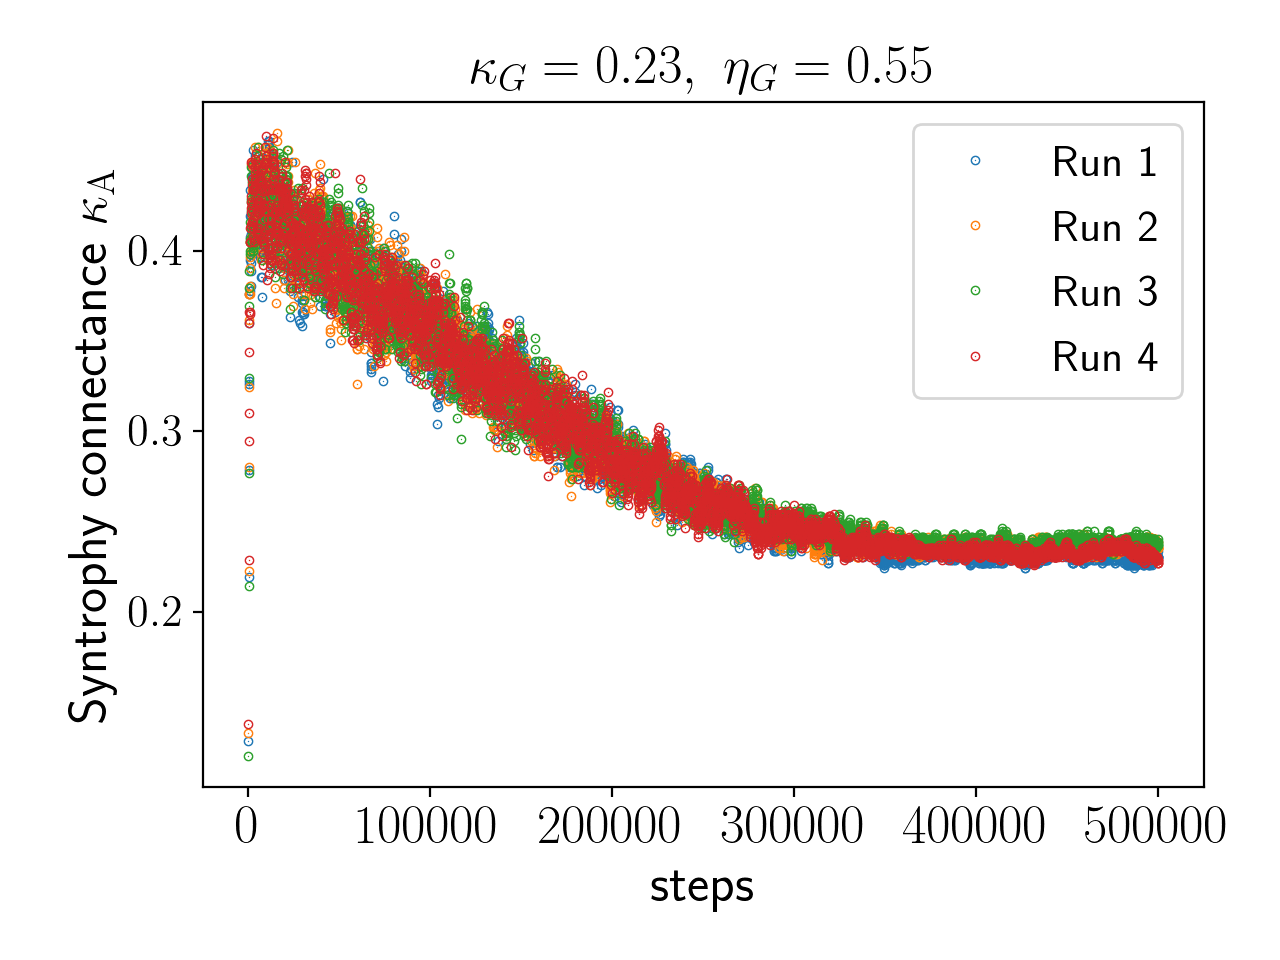
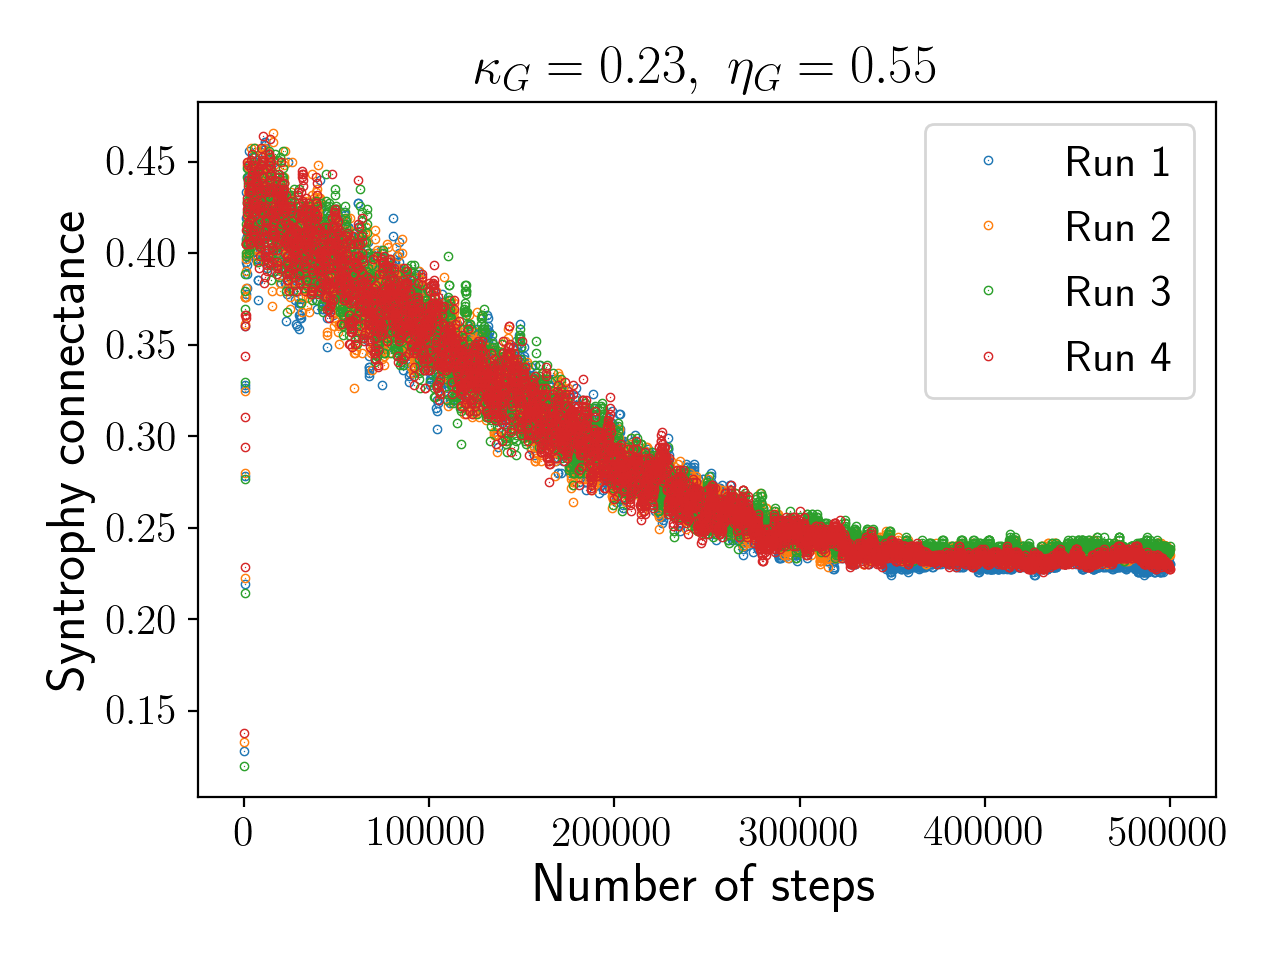
Removed special characters kappa and eta from energy optimzation process figures

diff --git a/data_analysis/consumer_resource_data_analysis/data_plotting.py b/data_analysis/consumer_resource_data_analysis/data_plotting.py
@@ -28,9 +28,9 @@ alpha_mode_sym = dict({'fully_connected': 'P', 'no_release_when_eat': 'D', 'opti
 alpha_mode_label=dict({'fully_connected':'Fully Connected', 'no_release_when_eat': 'NIS', 'optimized_matrix': 'Optimized', 'random_structure':'Random'})
 legend_titles=dict({'nestG': 'Consumption \n overlap '+r'$\eta_\mathrm{G}$', 'connG': 'Consumption \n connectance '+r'$\kappa_\mathrm{G}$'})
 
-labels=dict({'nestG': r'Consumption overlap $\eta_\mathrm{G}$', 'connG': r'Consumption connectance $\kappa_\mathrm{G}$',
-            'E': r'Objective function $ E $', 'connA': r'Syntrophy connectance $\kappa_\mathrm{A}$',
-            'nestA': r'Syntrophy overlap $\eta_\mathrm{A}$', 'feasible decay rate': r'Feasibility decay',
+labels=dict({'nestG': r'Consumption overlap $\eta_\mathrm{G}$', 'connG': r'Consumption connectance',
+            'E': r'Objective function', 'connA': r'Syntrophy connectance',
+            'nestA': r'Syntrophy overlap', 'feasible decay rate': r'Feasibility decay',
             'ld stable decay rate': r'Dynamical stability decay', 'alpha0': r'Syntrophy strength $\alpha_0$',
             'av. dominant eigenvalue':r'Mean rate of return', 'feasible volume':r'Feasible volume', 'dynamically stable volume':r'Dynamically stable volume'})
 

diff --git a/data_analysis/consumer_resource_data_analysis/optimization_process/optimization_analysis.py b/data_analysis/consumer_resource_data_analysis/optimization_process/optimization_analysis.py
@@ -11,7 +11,6 @@ def plot_moving_average(ax, x_axis, y_axis, symbol, legend):
     ax.set_xscale('linear')
     #ax.plot(x_axis, cf.moving_average(y_axis, average), marker='', linestyle='solid', linewidth=2, label=legend)
     ax.set_ylabel(symbol)
-    ax.set_xlabel(r'steps')
     return
 
 # plots energy, nestedness and connectance on the axis that are provided
@@ -49,6 +48,7 @@ for i in range(len(runs)):
     plot_data_optimized(axis, data=pd.read_csv(filename, dtype = float, sep=";", names=columns), label='Run '+str(i+1))
 
 for i in range(3):
+    axis[i].set_xlabel(r'Number of steps')
     axis[i].legend()
     figs[i].tight_layout()
     figs[i].savefig(save_path+figs_save_name[i], dpi=200)
